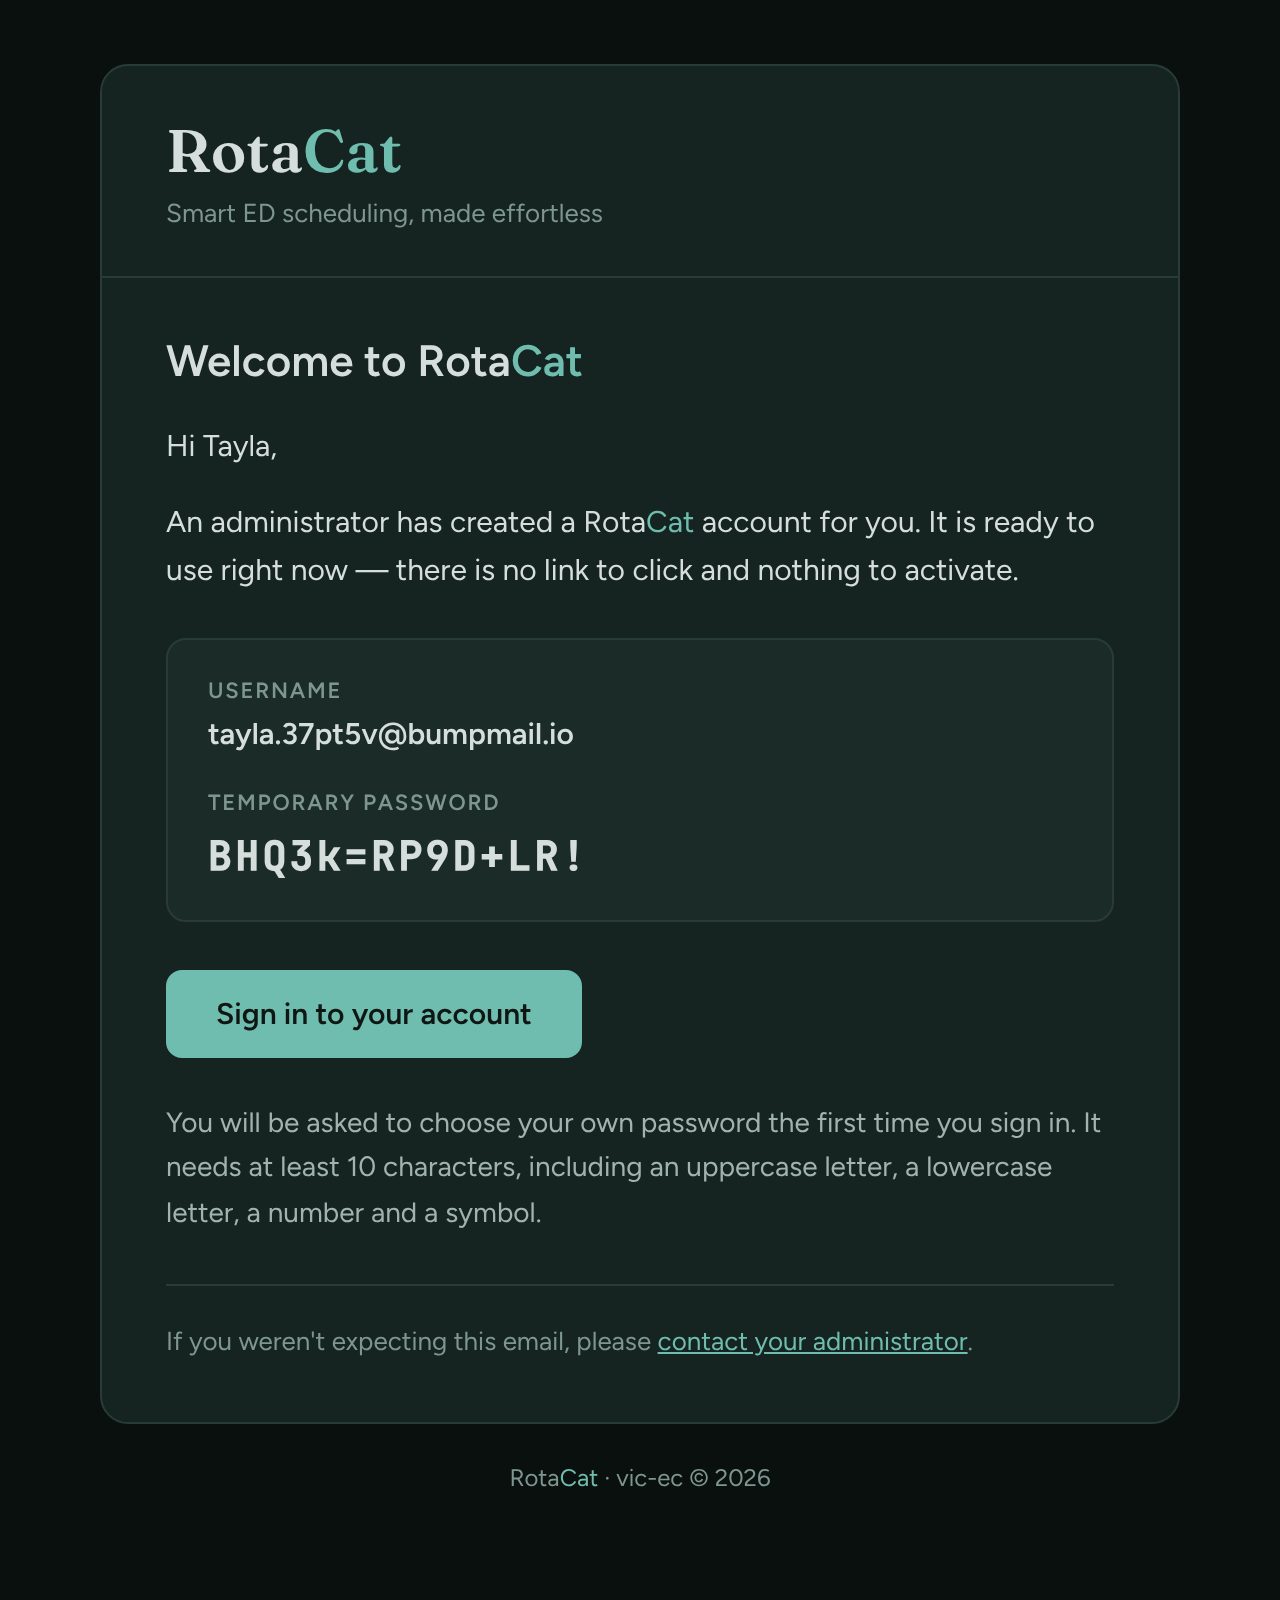
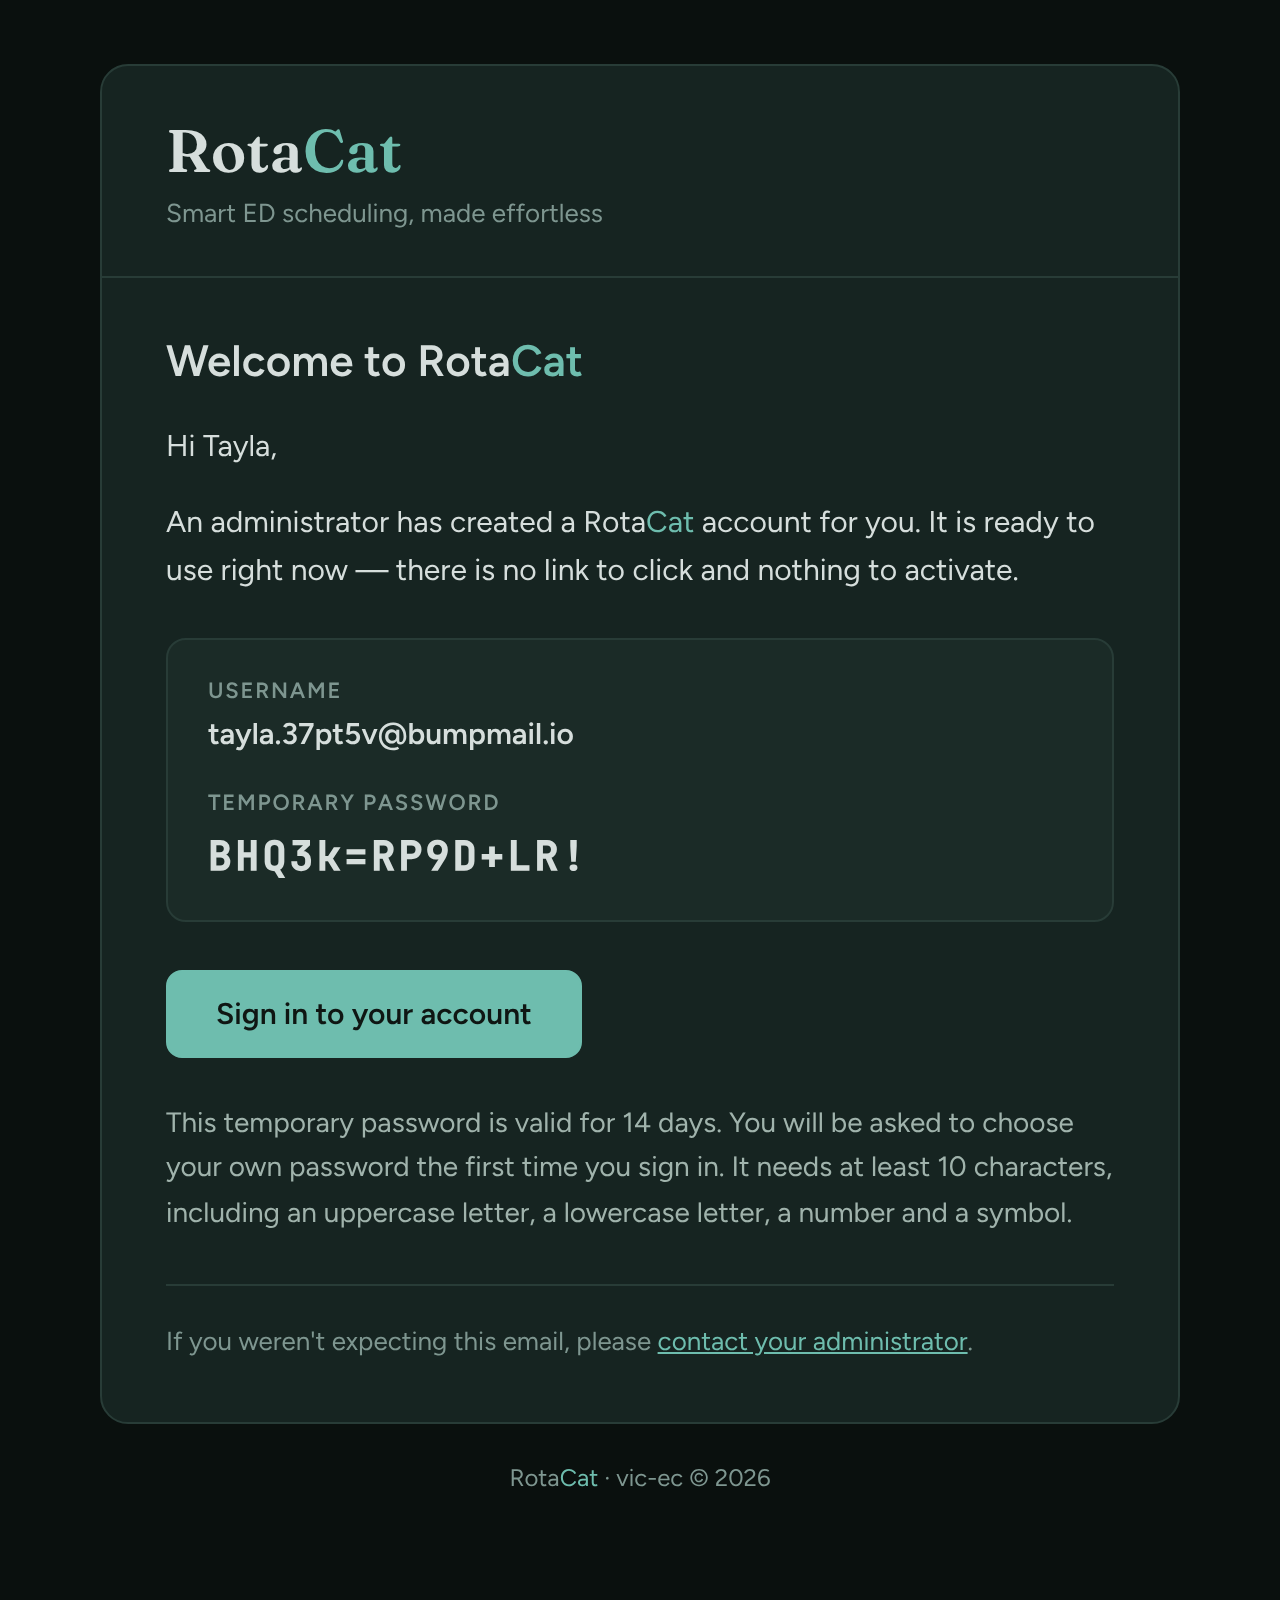
Emails: carry the 14-day temporary-password line into the new layout; renumber migration
Claude-Session: https://claude.ai/code/session_012j9w9qJETB1aVZcdoQzmjt

Changed region(s): [[0.125, 0.6875, 0.8438, 0.7812]]

diff --git a/supabase/functions/admin-staff-credentials/email.ts b/supabase/functions/admin-staff-credentials/email.ts
@@ -42,7 +42,7 @@ export function buildHtml({ firstName, password, appUrl, isReset }: Omit<Welcome
       panelValue(escapeHtml(password), { last: true, mono: true }),
     button: appUrl ? { label: 'Sign in to your account', href: escapeHtml(appUrl) } : undefined,
     notes: [
-      `You will be asked to choose your own password the first time you sign in. ${PASSWORD_RULES}`,
+      `This temporary password is valid for 14 days. You will be asked to choose your own password the first time you sign in. ${PASSWORD_RULES}`,
     ],
     footnote: `If you weren't expecting this email, please ${adminLink()}.`,
   })
@@ -62,6 +62,7 @@ export function buildText({ firstName, password, appUrl, isReset }: Omit<Welcome
     '',
     appUrl ? `Sign in: ${appUrl}` : '',
     '',
+    'This temporary password is valid for 14 days.',
     'You will be asked to choose your own password the first time you sign in.',
     PASSWORD_RULES,
     '',

diff --git a/supabase/functions/account-status-email/index.ts b/supabase/functions/account-status-email/index.ts
@@ -2,7 +2,7 @@
 // administrator approves or rejects their registration.
 //
 // Called by the database, not the browser: the trigger in
-// supabase/migrations/20261114120000_account_status_email_trigger.sql
+// supabase/migrations/20261114130000_account_status_email_trigger.sql
 // fires after `profiles.is_approved` or `profiles.is_rejected` flips to
 // true and POSTs here through pg_net. That is deliberate — the decision
 // and the email are then tied to the row changing, so it works whichever

diff --git a/supabase/functions/account-status-email/README.md b/supabase/functions/account-status-email/README.md
@@ -2,7 +2,7 @@
 
 Sends the "Your account has been approved" and "Your registration was not
 approved" emails. It is called by the database, not by the app: the trigger
-in `supabase/migrations/20261114120000_account_status_email_trigger.sql`
+in `supabase/migrations/20261114130000_account_status_email_trigger.sql`
 fires when an administrator's decision flips `profiles.is_approved` or
 `profiles.is_rejected` to true, and POSTs here through `pg_net`.
 
